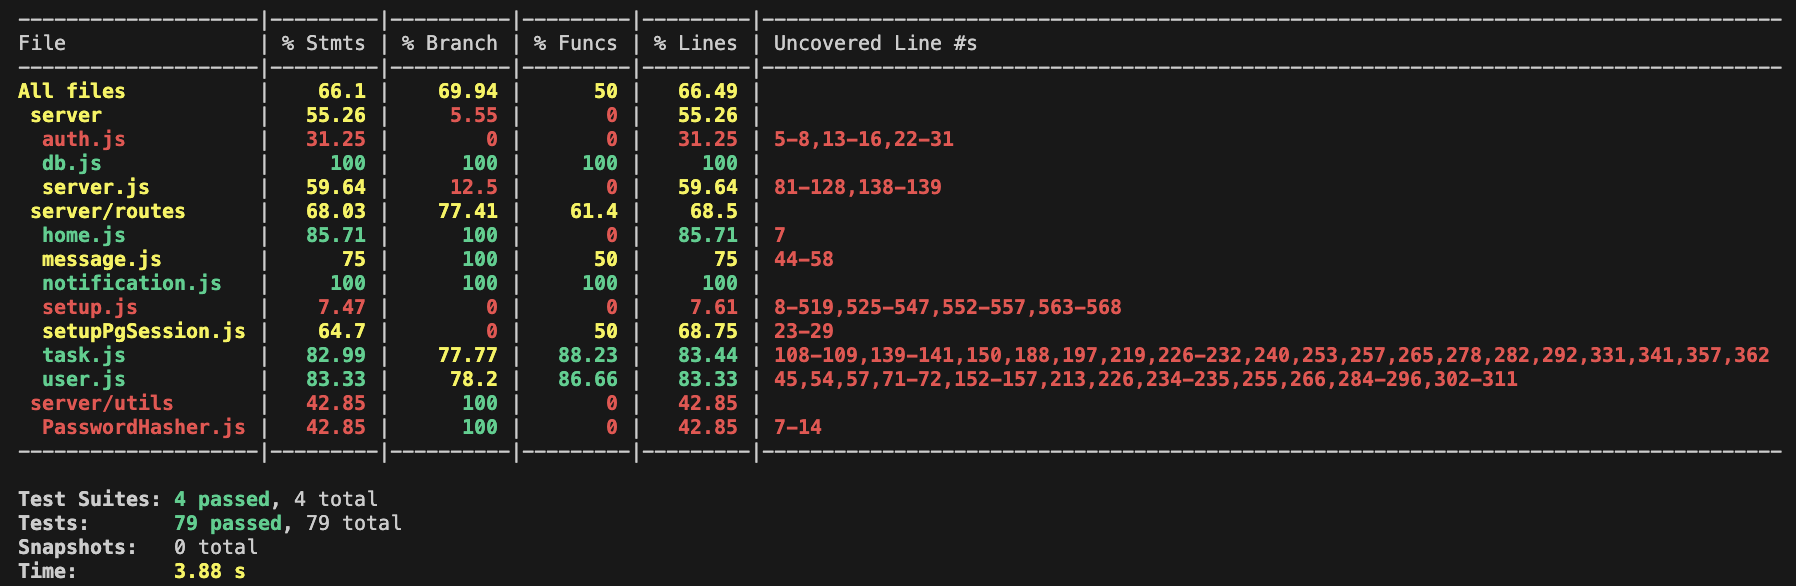
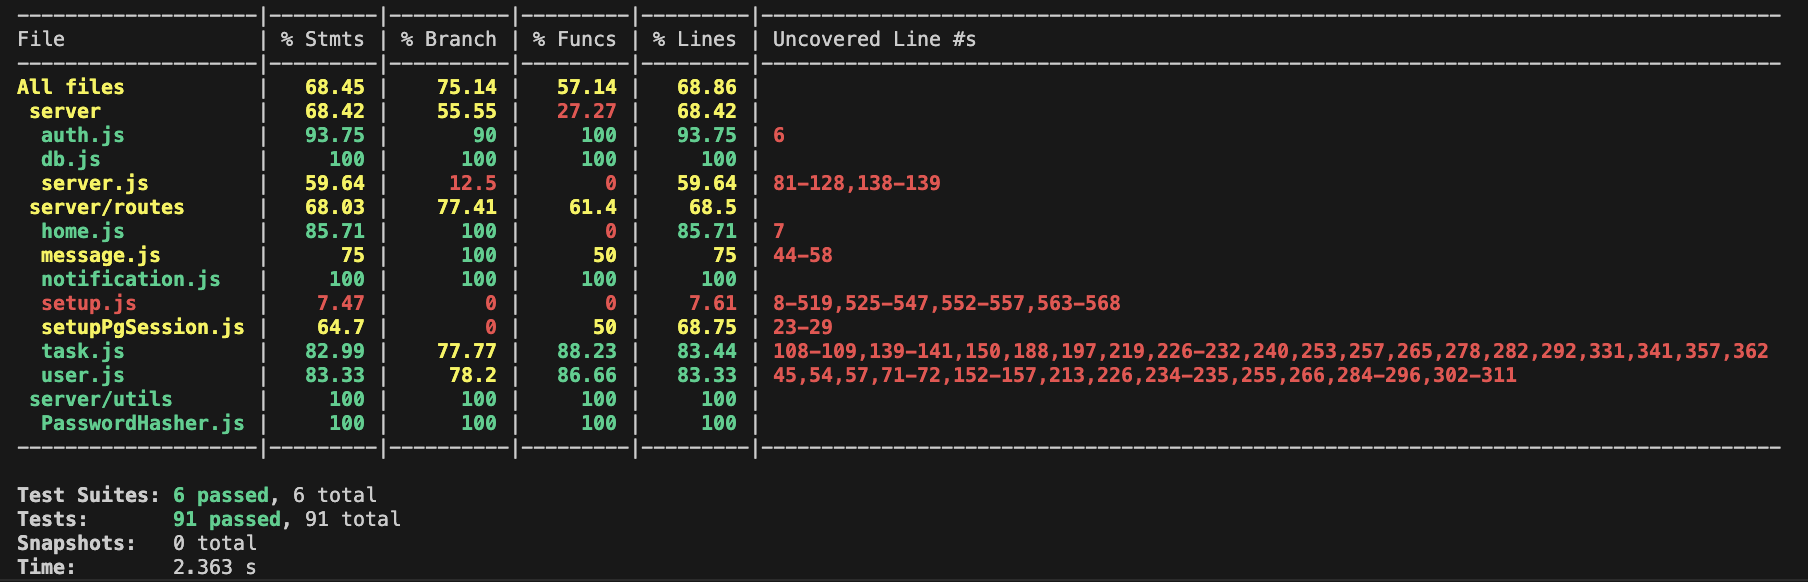
Add tests for PasswordHasher and authentication middleware; update README with test results

Changed region(s): [[0.0, 0.0, 0.9978, 0.7732], [0.0, 0.8351, 0.2183, 0.9897]]

diff --git a/ctms/server/routes/__test__/auth.test.js b/ctms/server/routes/__test__/auth.test.js
@@ -1,0 +1,79 @@
+const { isAuthenticated, isAuthAsAdmin } = require('../../auth');
+
+describe('Authentication Middleware', () => {
+    // Mock response object
+    let res;
+    // Mock next function
+    let next;
+
+    beforeEach(() => {
+        // Reset mocks before each test
+        res = {
+            status: jest.fn(() => res),
+            json: jest.fn(() => res)
+        };
+        next = jest.fn();
+    });
+
+    describe('isAuthenticated', () => {
+        test('should call next() if user is authenticated', () => {
+            const req = { session: { user: { id: '123' } } };
+
+            isAuthenticated(req, res, next);
+
+            expect(next).toHaveBeenCalled();
+            expect(res.status).not.toHaveBeenCalled();
+        });
+
+        test('should return 401 if user is not authenticated', () => {
+            const req = { session: {} };
+
+            isAuthenticated(req, res, next);
+
+            expect(res.status).toHaveBeenCalledWith(401);
+            expect(res.json).toHaveBeenCalledWith({ message: 'User is not authenticated' });
+            expect(next).not.toHaveBeenCalled();
+        });
+
+        test('should return 401 if session is undefined', () => {
+            const req = {};
+
+            isAuthenticated(req, res, next);
+
+            expect(res.status).toHaveBeenCalledWith(401);
+            expect(res.json).toHaveBeenCalledWith({ message: 'User is not authenticated' });
+            expect(next).not.toHaveBeenCalled();
+        });
+    });
+
+    describe('isAuthAsAdmin', () => {
+        test('should call next() if user is authenticated and has admin role', () => {
+            const req = { session: { user: { id: '123', role: 'admin' } } };
+
+            isAuthAsAdmin(req, res, next);
+
+            expect(next).toHaveBeenCalled();
+            expect(res.status).not.toHaveBeenCalled();
+        });
+
+        test('should return 401 if user is not authenticated', () => {
+            const req = { session: {} };
+
+            isAuthAsAdmin(req, res, next);
+
+            expect(res.status).toHaveBeenCalledWith(401);
+            expect(res.json).toHaveBeenCalledWith({ message: 'User is not authenticated' });
+            expect(next).not.toHaveBeenCalled();
+        });
+
+        test('should return 403 if user is authenticated but not an admin', () => {
+            const req = { session: { user: { id: '123', role: 'user' } } };
+
+            isAuthAsAdmin(req, res, next);
+
+            expect(res.status).toHaveBeenCalledWith(403);
+            expect(res.json).toHaveBeenCalledWith({ message: 'Admin access is required to see this page' });
+            expect(next).not.toHaveBeenCalled();
+        });
+    });
+});

diff --git a/ctms/server/routes/__test__/PasswordHasher.test.js b/ctms/server/routes/__test__/PasswordHasher.test.js
@@ -1,0 +1,69 @@
+const { hashPassword, verifyPassword } = require('../../utils/PasswordHasher');
+const bcrypt = require('bcryptjs');
+
+jest.mock('bcryptjs', () => ({
+    genSalt: jest.fn(),
+    hash: jest.fn(),
+    compare: jest.fn()
+}));
+
+describe('PasswordHasher', () => {
+    beforeEach(() => {
+        jest.clearAllMocks();
+    });
+
+    describe('hashPassword', () => {
+        it('should call bcrypt.genSalt with salt rounds of 10', async () => {
+            bcrypt.genSalt.mockResolvedValue('salt');
+            bcrypt.hash.mockResolvedValue('hashedPassword');
+
+            await hashPassword('password123');
+
+            expect(bcrypt.genSalt).toHaveBeenCalledWith(10);
+        });
+
+        it('should call bcrypt.hash with password and generated salt', async () => {
+            bcrypt.genSalt.mockResolvedValue('generatedSalt');
+            bcrypt.hash.mockResolvedValue('hashedPassword');
+
+            await hashPassword('password123');
+
+            expect(bcrypt.hash).toHaveBeenCalledWith('password123', 'generatedSalt');
+        });
+
+        it('should return the hashed password', async () => {
+            bcrypt.genSalt.mockResolvedValue('salt');
+            bcrypt.hash.mockResolvedValue('hashedPassword123');
+
+            const result = await hashPassword('password123');
+
+            expect(result).toBe('hashedPassword123');
+        });
+    });
+
+    describe('verifyPassword', () => {
+        it('should call bcrypt.compare with input password and stored hash', async () => {
+            bcrypt.compare.mockResolvedValue(true);
+
+            await verifyPassword('password123', 'storedHash123');
+
+            expect(bcrypt.compare).toHaveBeenCalledWith('password123', 'storedHash123');
+        });
+
+        it('should return true when passwords match', async () => {
+            bcrypt.compare.mockResolvedValue(true);
+
+            const result = await verifyPassword('password123', 'storedHash123');
+
+            expect(result).toBe(true);
+        });
+
+        it('should return false when passwords do not match', async () => {
+            bcrypt.compare.mockResolvedValue(false);
+
+            const result = await verifyPassword('wrongPassword', 'storedHash123');
+
+            expect(result).toBe(false);
+        });
+    });
+});

diff --git a/README.md b/README.md
@@ -62,12 +62,6 @@ Functions: 50%
 
 Lines: 66.15%
 
-## <ul>
+Test Suites: 6 passed, 6 total
 
-Test Suites: 4 passed, 4 total
-
-Tests: 77 passed, 77 total
-
-Snapshots: 0 total
-
-Time: 0.944 s
+Tests: 91 passed, 91 total
